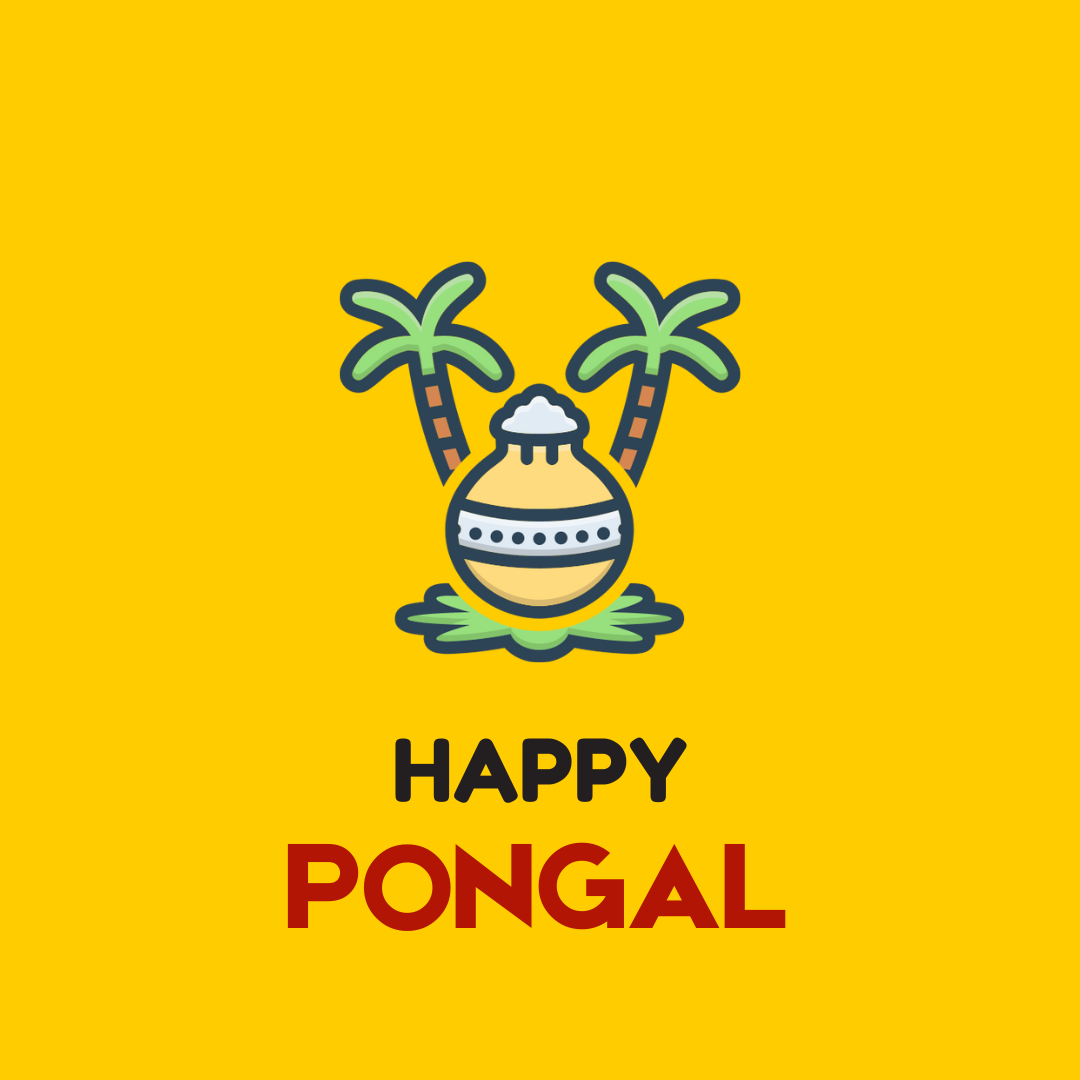
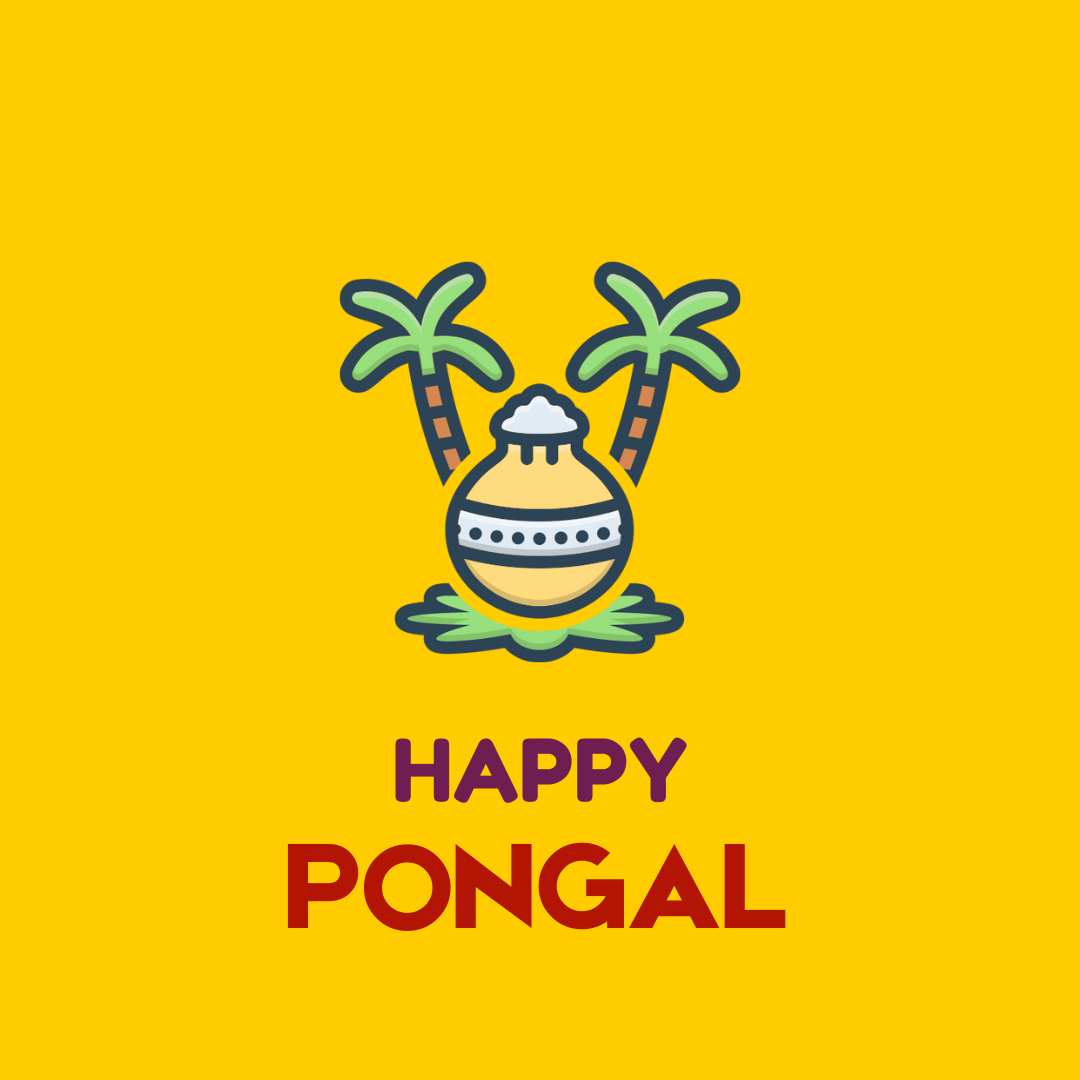
small tweaks

Changed region(s): [[0.3667, 0.6722, 0.6417, 0.7639]]

diff --git a/src/controllers/wishController.ts b/src/controllers/wishController.ts
@@ -88,11 +88,11 @@ export const CreateImage = (req: Request, res: Response): void => {
   context.textAlign = 'center';
   context.textBaseline = 'top';
   const gradient = context.createLinearGradient(0, 0, canvas.width, 0);
-  gradient.addColorStop(0.5, '#6F1E51');
-  gradient.addColorStop(0.1, '#D980FA');
+  gradient.addColorStop(0.5, '#B53471');
+  gradient.addColorStop(0.1, '#B53471');
   gradient.addColorStop(1, '#D980FA');
   context.fillStyle = gradient;
-  context.shadowColor = '#6F1E51';
+  context.shadowColor = '#B53471';
   context.shadowBlur = 3;
   context.font = "38px 'Anek Tamil' bold";
 
